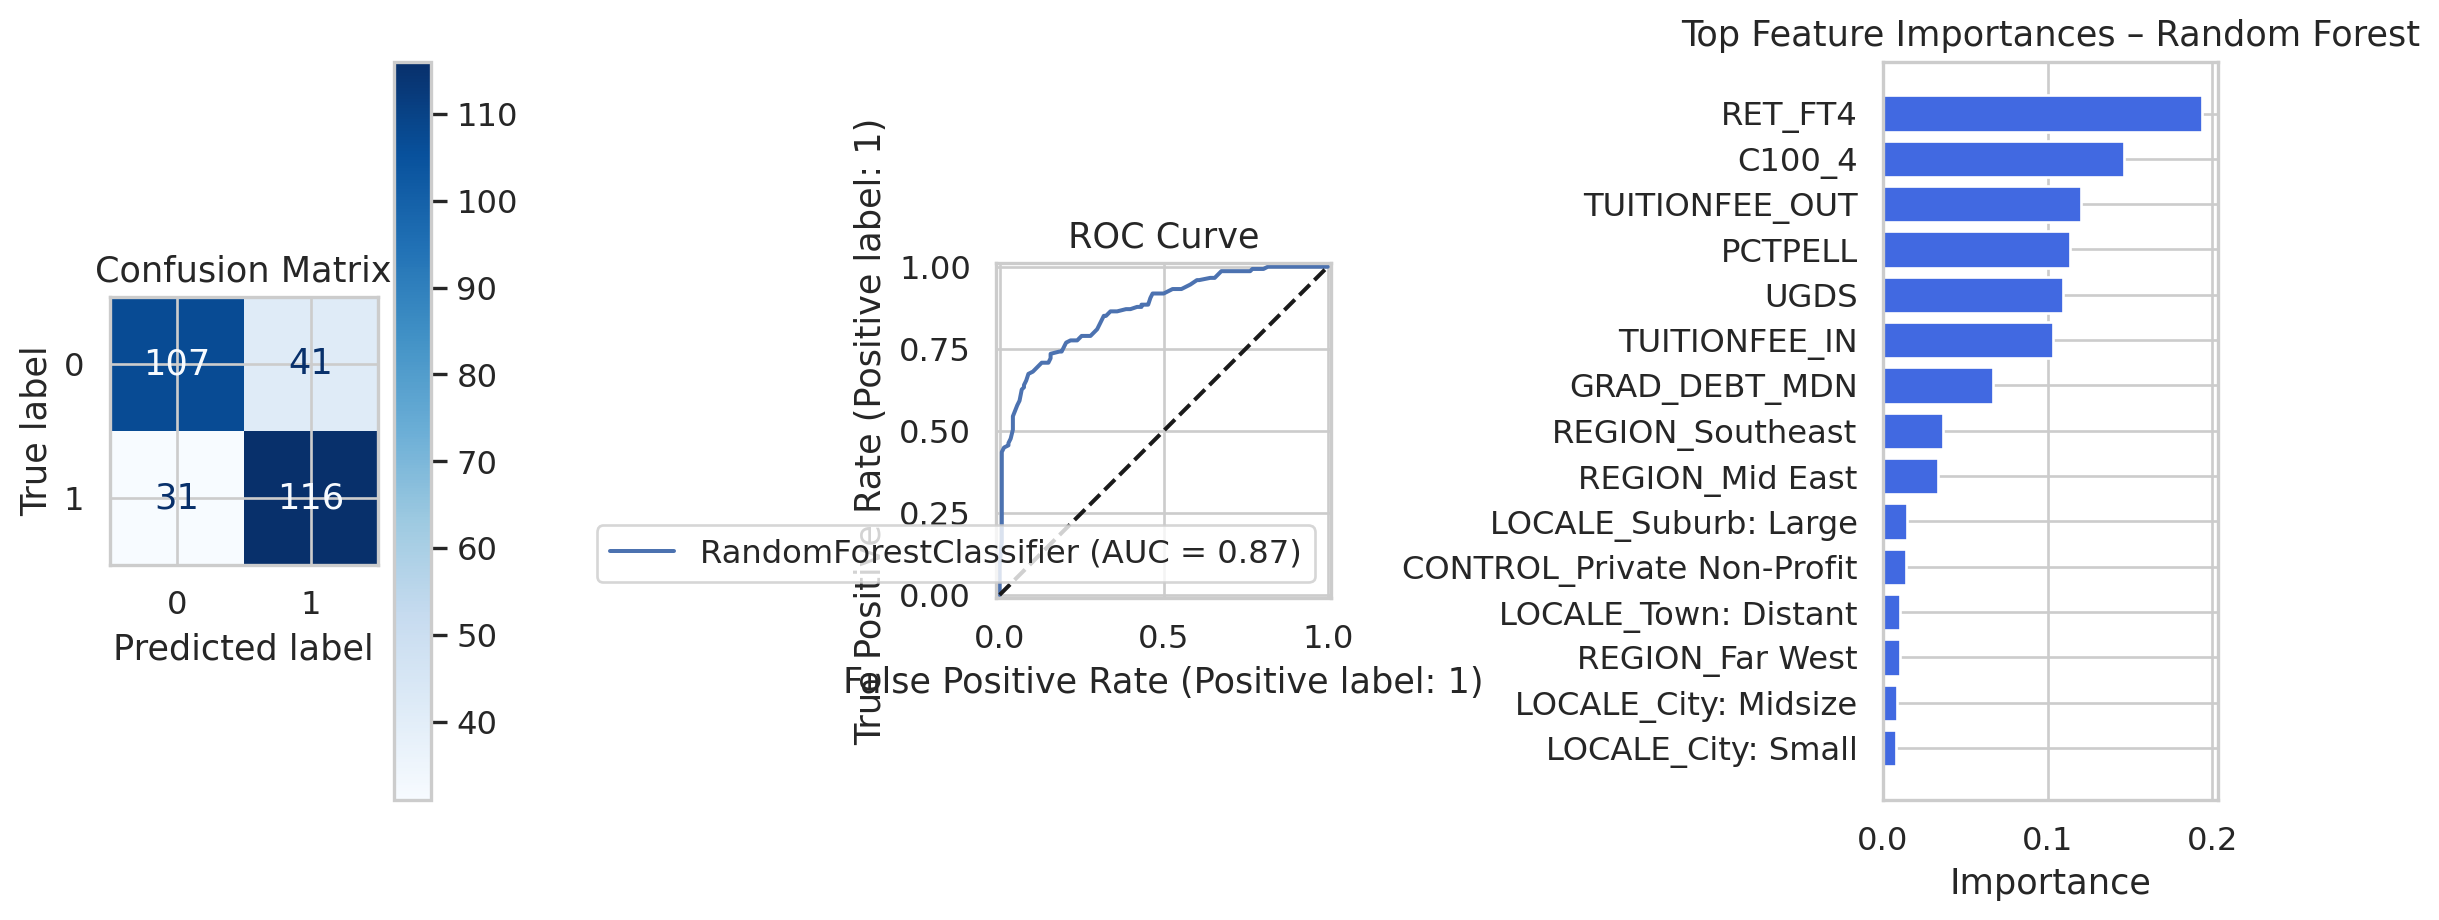
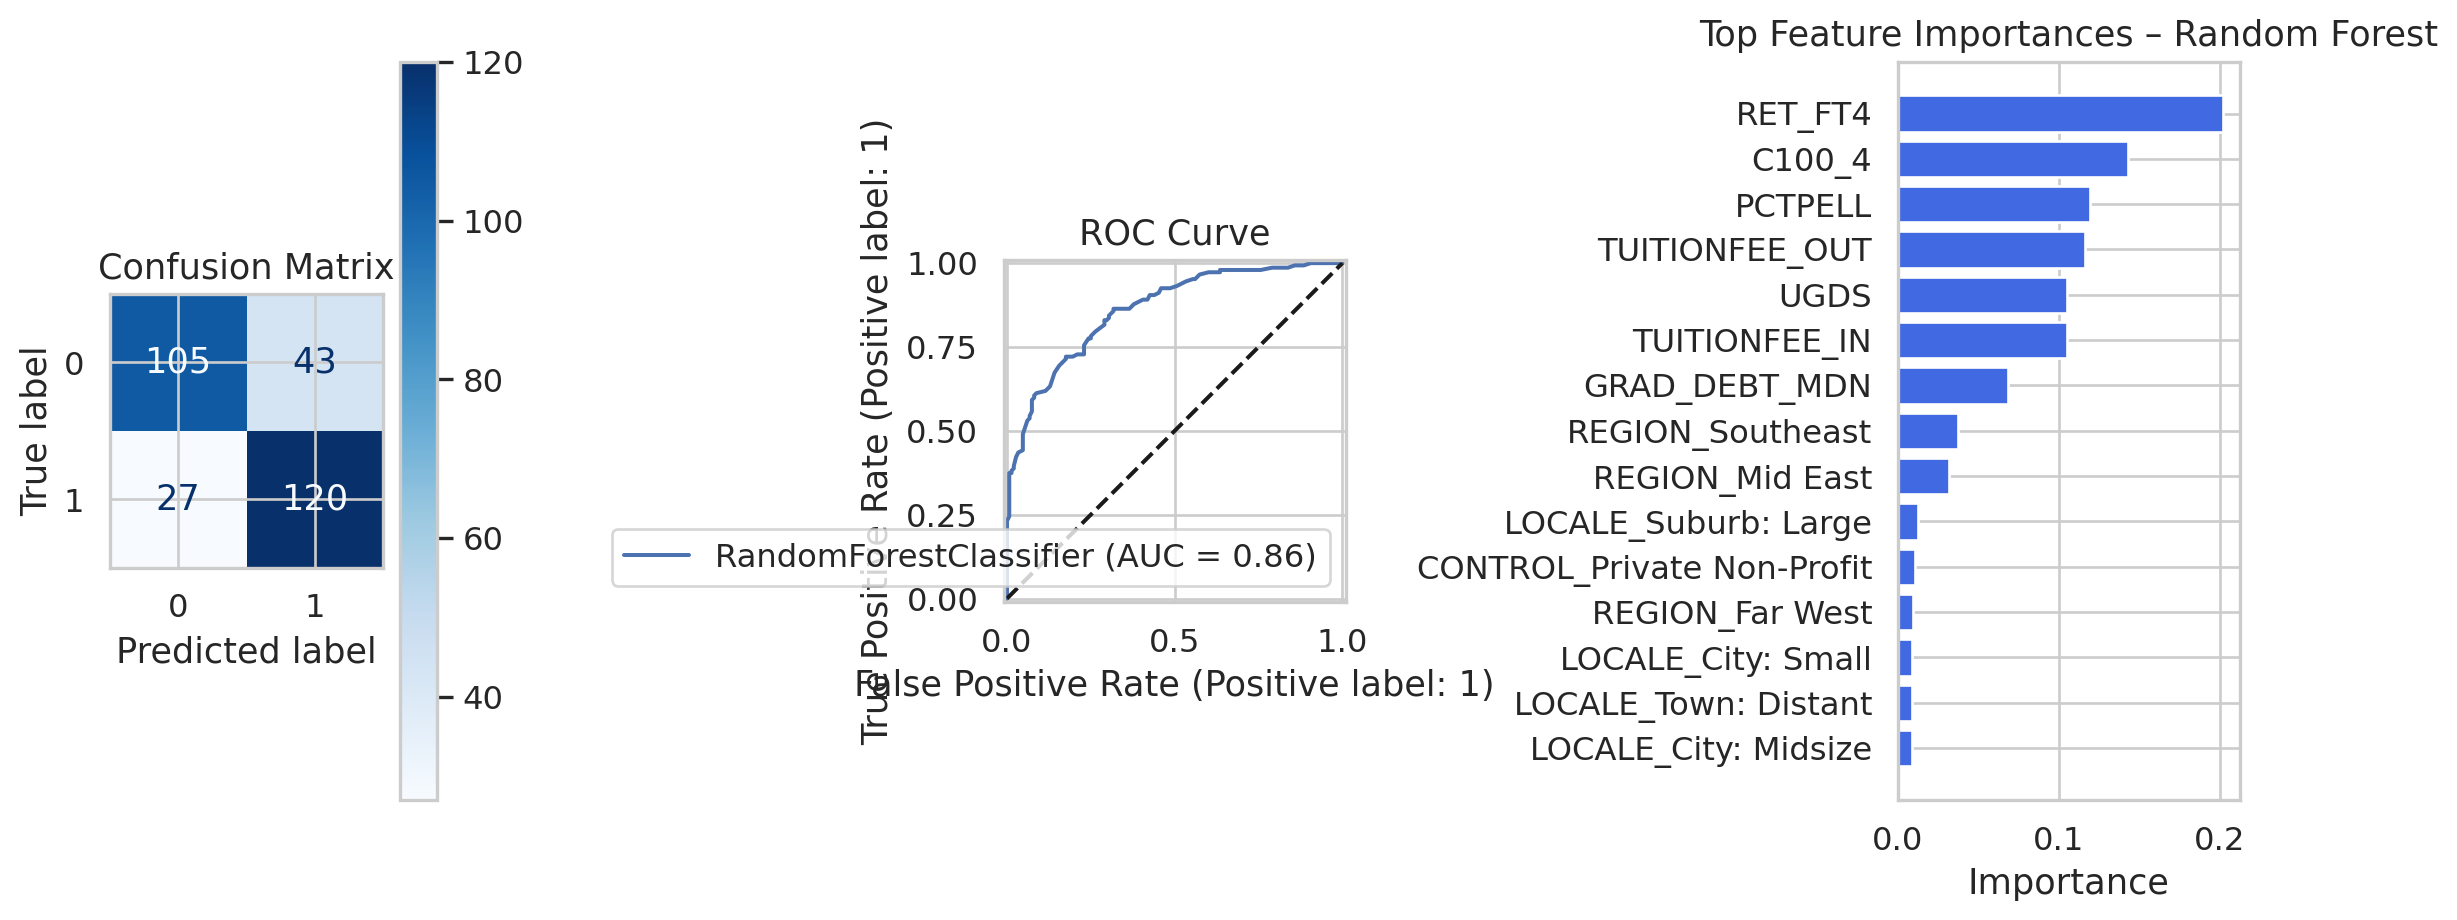
Built site for gh-pages

diff --git a/presentation.html b/presentation.html
@@ -223,7 +223,7 @@ Ava Lasater
 </section>
 <section id="correlation-matrix-of-numerical-features" class="slide level2 smaller">
 <h2>Correlation Matrix of Numerical Features</h2>
-<div id="c2e41a94" class="cell" data-fig-height="6" data-fig-responsive="false" data-fig-width="8" data-execution_count="4">
+<div id="a780d1a2" class="cell" data-fig-height="6" data-fig-responsive="false" data-fig-width="8" data-execution_count="4">
 <div class="cell-output cell-output-display">
 <div class="quarto-figure quarto-figure-center">
 <figure>
@@ -264,7 +264,7 @@ Ava Lasater
 </section>
 <section id="linear-regression-results-1" class="slide level2 smaller">
 <h2>Linear Regression Results</h2>
-<div id="9fed63d7" class="cell" data-fig-height="6" data-fig-responsive="false" data-fig-width="8" data-execution_count="5">
+<div id="66798e18" class="cell" data-fig-height="6" data-fig-responsive="false" data-fig-width="8" data-execution_count="5">
 <div class="cell-output cell-output-stdout">
 <pre><code>Mean Squared Error: 110300510.89
 R-squared: 0.4855</code></pre>
@@ -295,7 +295,7 @@ R-squared: 0.4855</code></pre>
 </section>
 <section id="ridge-regression-results-1" class="slide level2 smaller">
 <h2>Ridge Regression Results</h2>
-<div id="71c310a7" class="cell" data-fig-height="6" data-fig-responsive="false" data-fig-width="10" data-execution_count="6">
+<div id="36ed5745" class="cell" data-fig-height="6" data-fig-responsive="false" data-fig-width="10" data-execution_count="6">
 <div class="cell-output cell-output-stdout">
 <pre><code>Ridge Regression:
 Mean Squared Error: 110226157.793066
@@ -329,7 +329,7 @@ R-squared: 0.48583010161522244</code></pre>
 </section>
 <section id="selectkbest-feature-selection" class="slide level2">
 <h2>SelectKBest Feature Selection</h2>
-<div id="06feda4f" class="cell" data-fig-height="6" data-fig-responsive="false" data-fig-width="10" data-execution_count="7">
+<div id="bba73abb" class="cell" data-fig-height="6" data-fig-responsive="false" data-fig-width="10" data-execution_count="7">
 <div class="cell-output cell-output-display">
 <div class="quarto-figure quarto-figure-center">
 <figure>
@@ -360,29 +360,11 @@ R-squared: 0.48583010161522244</code></pre>
 </section>
 <section id="permutation-importance" class="slide level2">
 <h2>Permutation Importance</h2>
-<div id="dcb95970" class="cell" data-fig-height="6" data-fig-responsive="false" data-fig-width="10" data-execution_count="8">
-<div class="cell-output cell-output-stdout">
-<pre><code>TUITIONFEE_IN             0.0
-TUITIONFEE_OUT            0.0
-GRAD_DEBT_MDN             0.0
-RET_FT4                   0.0
-C100_4                    0.0
-PCTPELL                   0.0
-UGDS                      0.0
-REGION_Mid East           0.0
-REGION_Great Lakes        0.0
-REGION_Plains             0.0
-REGION_Southeast          0.0
-REGION_Southwest          0.0
-REGION_Rocky Mountains    0.0
-REGION_Far West           0.0
-REGION_Outlying Areas     0.0
-dtype: float64</code></pre>
-</div>
+<div id="ec995749" class="cell" data-fig-height="6" data-fig-responsive="false" data-fig-width="10" data-execution_count="8">
 <div class="cell-output cell-output-display">
 <div class="quarto-figure quarto-figure-center">
 <figure>
-<p><img data-src="presentation_files/figure-revealjs/cell-9-output-2.png" class="quarto-figure quarto-figure-center" width="940" height="556"></p>
+<p><img data-src="presentation_files/figure-revealjs/cell-9-output-1.png" class="quarto-figure quarto-figure-center" width="940" height="556"></p>
 </figure>
 </div>
 </div>
@@ -409,10 +391,10 @@ dtype: float64</code></pre>
 </section>
 <section id="logistic-regression-results" class="slide level2 smaller">
 <h2>Logistic Regression Results</h2>
-<div id="3fa18828" class="cell" data-fig-height="5" data-fig-responsive="false" data-fig-width="12" data-execution_count="9">
+<div id="6ad71414" class="cell" data-fig-height="5" data-fig-responsive="false" data-fig-width="12" data-execution_count="9">
 <div class="cell-output cell-output-stdout">
 <pre><code>k-Fold F1-Score: 0.80
-k-Fold CV took 0.08 seconds
+k-Fold CV took 0.14 seconds
 
 Logistic Regression Accuracy: 0.7728813559322034
 Logistic Regression Precision: 0.7775823831391786
@@ -454,20 +436,20 @@ Logistic Regression F-1 Score: 0.7719854657317307</code></pre>
 </section>
 <section id="random-forest-results" class="slide level2 smaller">
 <h2>Random Forest Results</h2>
-<div id="ff3c58b9" class="cell" data-fig-height="5" data-fig-responsive="false" data-fig-width="12" data-execution_count="10">
+<div id="52f8c808" class="cell" data-fig-height="5" data-fig-responsive="false" data-fig-width="12" data-execution_count="10">
 <div class="cell-output cell-output-stdout">
 <pre><code>Random Forest Cross Validation
 k-Fold F1-Score: 0.81
-k-Fold CV took 1.11 seconds
-Random Forest Accuracy: 0.7559322033898305
-Random Forest Precision: 0.7571697903612158
-Random Forest Recall: 0.7559322033898305
-Random Forest F-1 Score: 0.7556795568392357</code></pre>
+k-Fold CV took 1.08 seconds
+Random Forest Accuracy: 0.7627118644067796
+Random Forest Precision: 0.7659258699084007
+Random Forest Recall: 0.7627118644067796
+Random Forest F-1 Score: 0.762055768179333</code></pre>
 </div>
 <div class="cell-output cell-output-display">
 <div class="quarto-figure quarto-figure-center">
 <figure>
-<p><img data-src="presentation_files/figure-revealjs/cell-11-output-2.png" class="quarto-figure quarto-figure-center" width="1220" height="460"></p>
+<p><img data-src="presentation_files/figure-revealjs/cell-11-output-2.png" class="quarto-figure quarto-figure-center" width="1229" height="460"></p>
 </figure>
 </div>
 </div>
@@ -475,7 +457,7 @@ Random Forest F-1 Score: 0.7556795568392357</code></pre>
 </section>
 <section id="calibration-probabilities-vs.-accuracy" class="slide level2 smaller">
 <h2>Calibration: Probabilities vs.&nbsp;Accuracy</h2>
-<div id="28a68c88" class="cell" data-fig-height="6" data-fig-responsive="false" data-fig-width="7" data-execution_count="11">
+<div id="9030d694" class="cell" data-fig-height="6" data-fig-responsive="false" data-fig-width="7" data-execution_count="11">
 <div class="cell-output cell-output-display">
 <div class="quarto-figure quarto-figure-center">
 <figure>
